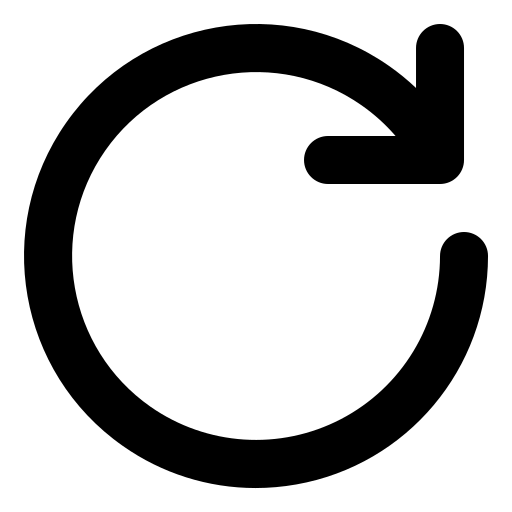
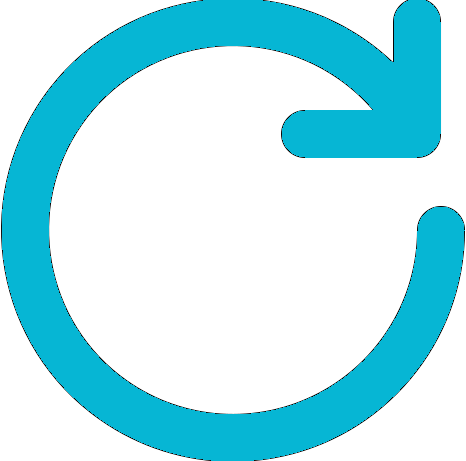
add loading component

diff --git a/src/views/Category.vue b/src/views/Category.vue
@@ -29,14 +29,16 @@
       :product="product"
     />
   </div>
-  <div v-else class="text-black mt-4 text-center text-3xl">{{ state }}</div>
+  <loading v-else :isLoading="load" @reload="getData()" />
 </template>
 
 <script>
 import productCart from "../components/UI/Product-cart.vue";
+import loading from "../components/UI/loading.vue";
 export default {
   data() {
     return {
+      load: true,
       categories: [
         "electronics",
         "jewelery",
@@ -45,7 +47,6 @@ export default {
         "general",
       ],
       products: [],
-      state: "Loading. . .",
     };
   },
   beforeMount() {
@@ -58,7 +59,7 @@ export default {
         this.categories = this.categories.filter(
           (item) => item != this.category
         );
-        this.state = "Loading. . .";
+        this.load = true;
         if (this.category == "general") {
           fetch("https://fakestoreapi.com/products")
             .then((res) => res.json())
@@ -66,14 +67,14 @@ export default {
               this.products = json;
             })
             .catch(() => {
-              this.state = "Error getting the data";
+              this.load = false;
             });
         } else {
           fetch(`https://fakestoreapi.com/products/category/${this.category}`)
             .then((res) => res.json())
             .then((json) => (this.products = json))
             .catch(() => {
-              this.state = "Error getting the data";
+              this.load = false;
             });
         }
       } else {
@@ -95,7 +96,7 @@ export default {
       });
     },
   },
-  components: { productCart },
+  components: { productCart, loading },
   props: {
     category: {
       type: String,

diff --git a/src/components/search/Products.vue b/src/components/search/Products.vue
@@ -9,22 +9,31 @@
       :product="product"
     />
   </div>
-  <div v-else class="text-black my-16 text-center text-3xl">{{ state }}</div>
+
+  <loading v-else :isLoading="load" @reload="reload()" />
 </template>
 
 <script>
 import productCart from "../UI/Product-cart.vue";
+import loading from "../UI/loading.vue";
 import { useProductsStore } from "../../stores/products";
 export default {
   data() {
     return {
+      load: true,
       products: [],
-      state: "Loading...",
     };
   },
   computed: {
     allProducts() {
       return useProductsStore().products;
+    },
+  },
+  watch: {
+    allProducts() {
+      if (!this.allProducts) {
+        this.load = true;
+      }
     },
   },
   created() {
@@ -42,6 +51,7 @@ export default {
   },
   components: {
     productCart,
+    loading,
   },
   props: ["word"],
 };

diff --git a/src/components/UI/loading.vue b/src/components/UI/loading.vue
@@ -1,9 +1,44 @@
 <template>
-    
+  <div class="wrapper grid place-content-center h-[90vh]">
+    <img
+      src="/reload.png"
+      class="w-20 smooth"
+      :class="isLoading ? 'rolling' : 'hover:opacity-40  cursor-pointer'"
+      @click="reload()"
+    />
+  </div>
 </template>
 
 <script>
-export default {};
+export default {
+  methods: {
+    reload() {
+      if (!this.isLoading) {
+        this.$emit("reload");
+      }
+    },
+  },
+  props: {
+    isLoading: {
+      default: true,
+      type: String,
+    },
+  },
+};
 </script>
 
-<style></style>
+<style scoped>
+.rolling {
+  animation: 1s infinite linear rotate;
+  @apply filter grayscale;
+}
+
+@keyframes rotate {
+  0% {
+    transform: rotate(0deg);
+  }
+  100% {
+    transform: rotate(360deg);
+  }
+}
+</style>

diff --git a/src/App.vue b/src/App.vue
@@ -8,14 +8,8 @@
 import Nav from "./components/UI/Nav.vue";
 import { useProductsStore } from "./stores/products";
 export default {
-  data() {
-    return {
-      user: null,
-    };
-  },
   computed: {
     userId() {
-      console.log("here");
       return localStorage.getItem("userId");
     },
   },
